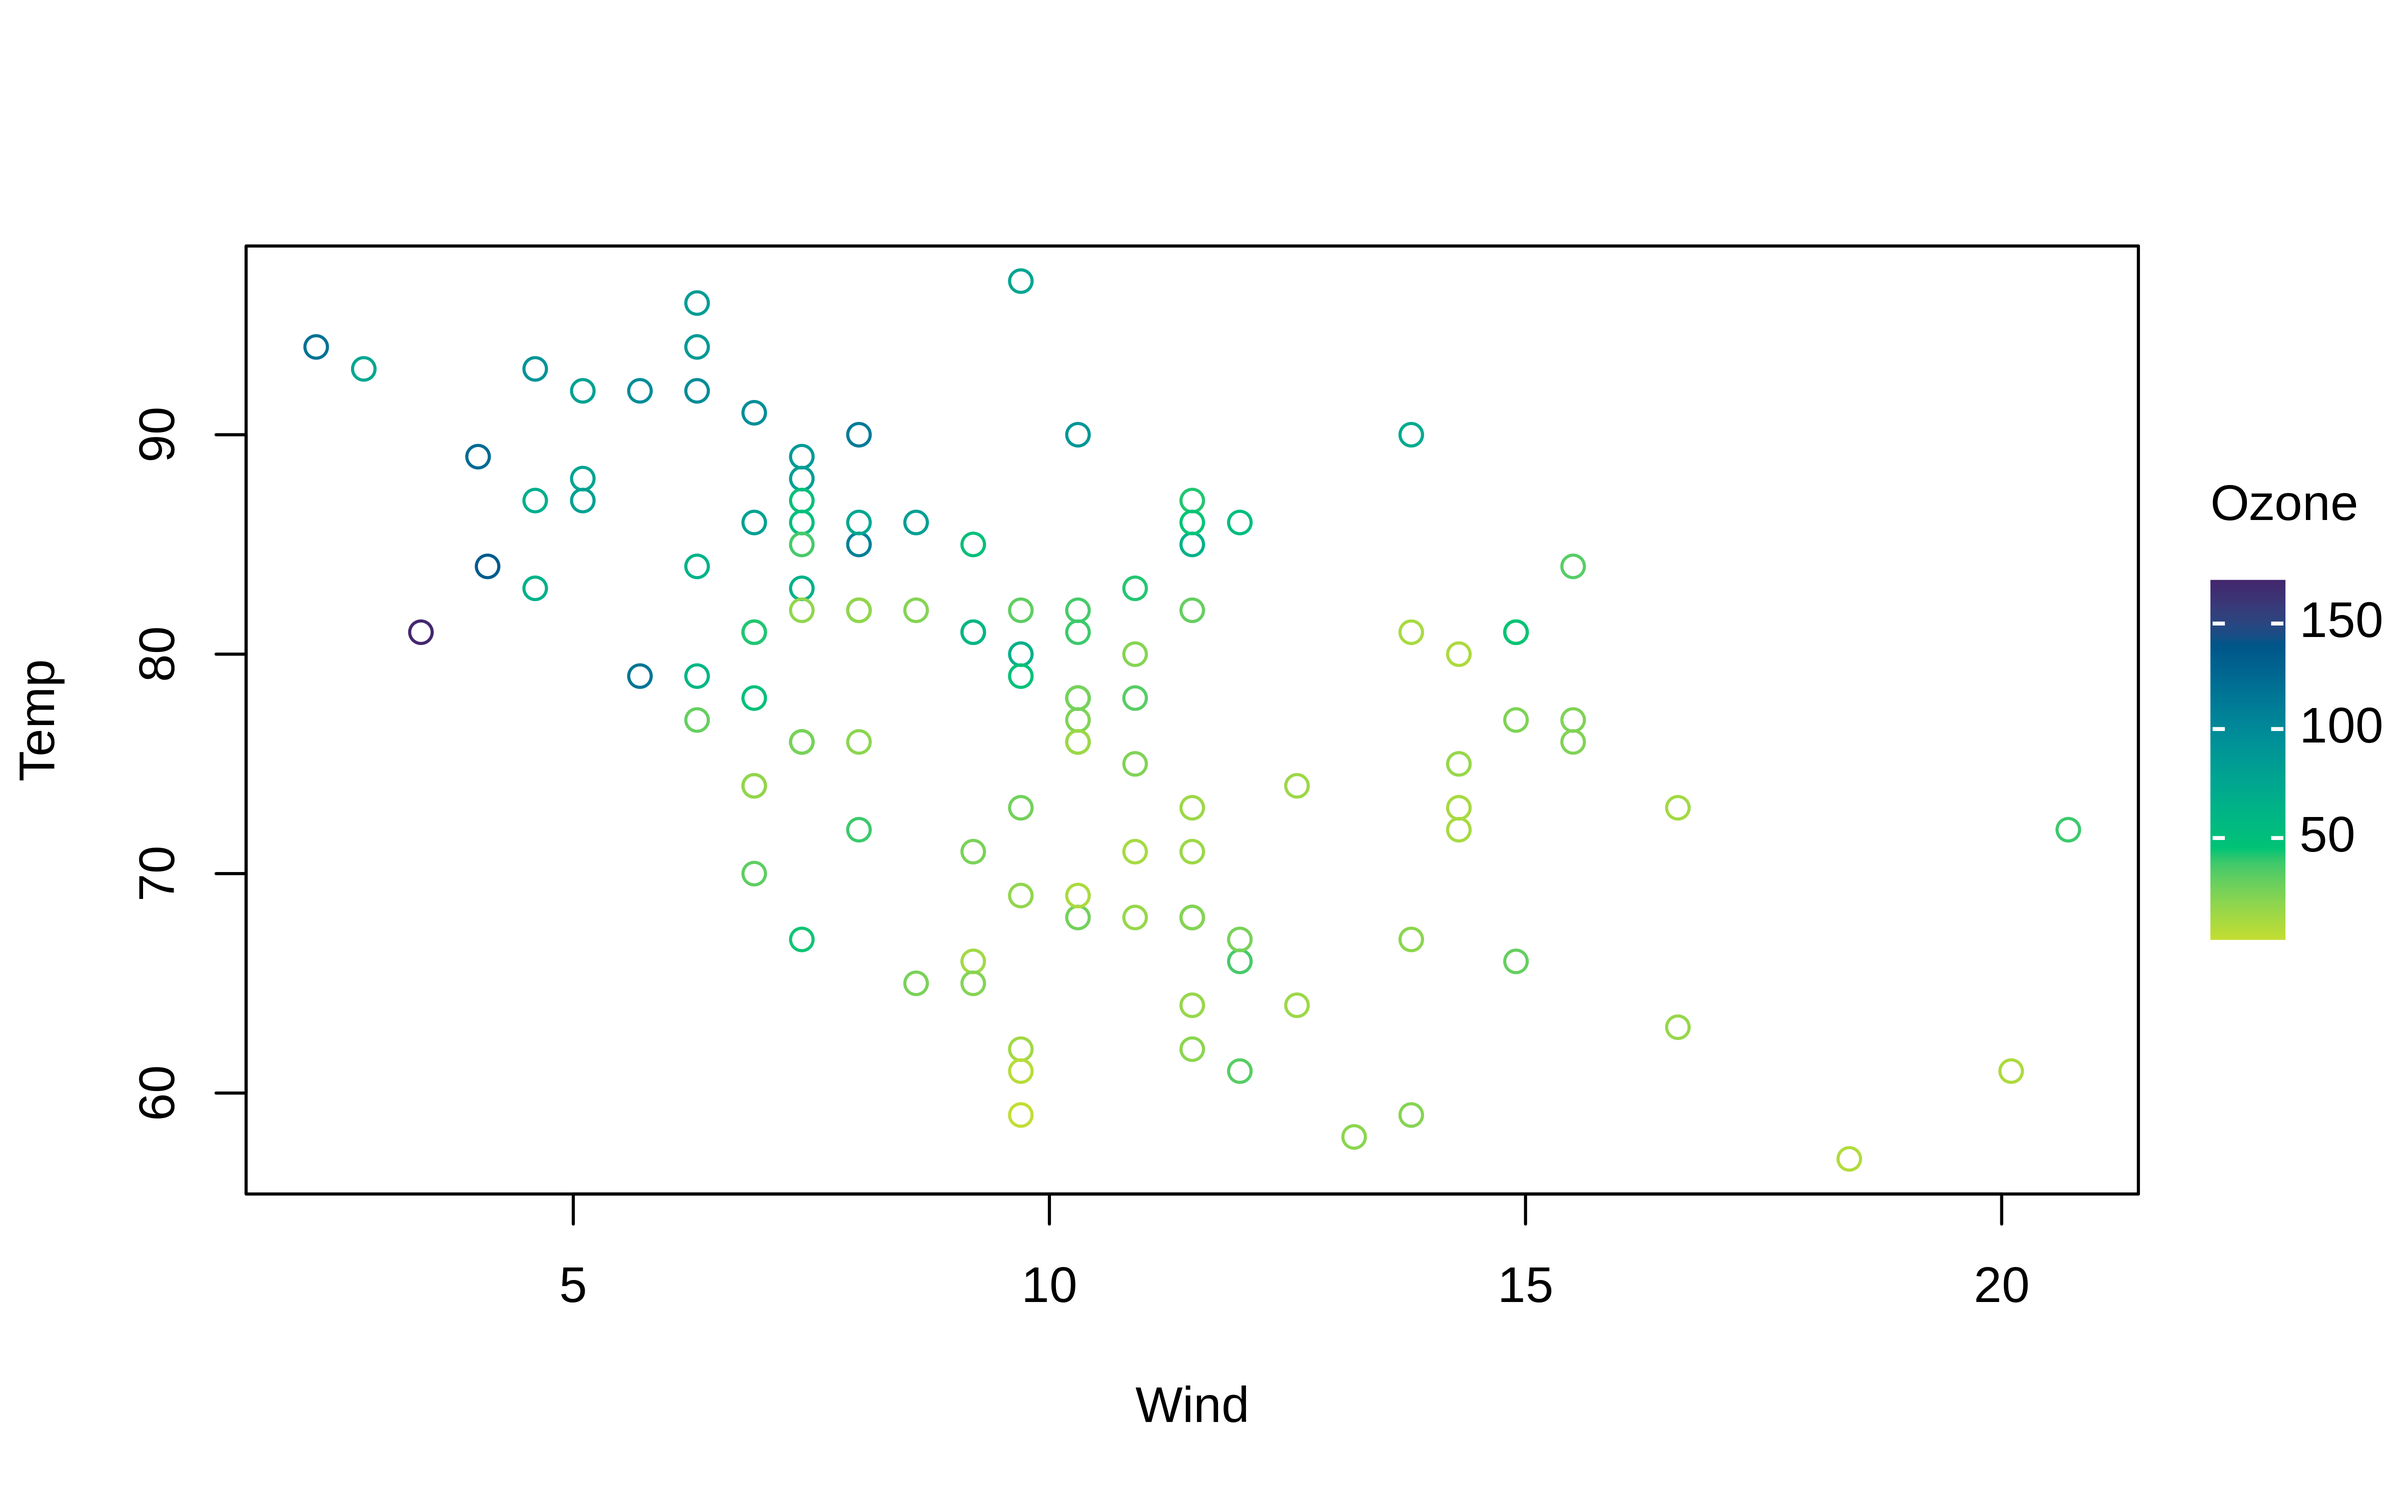
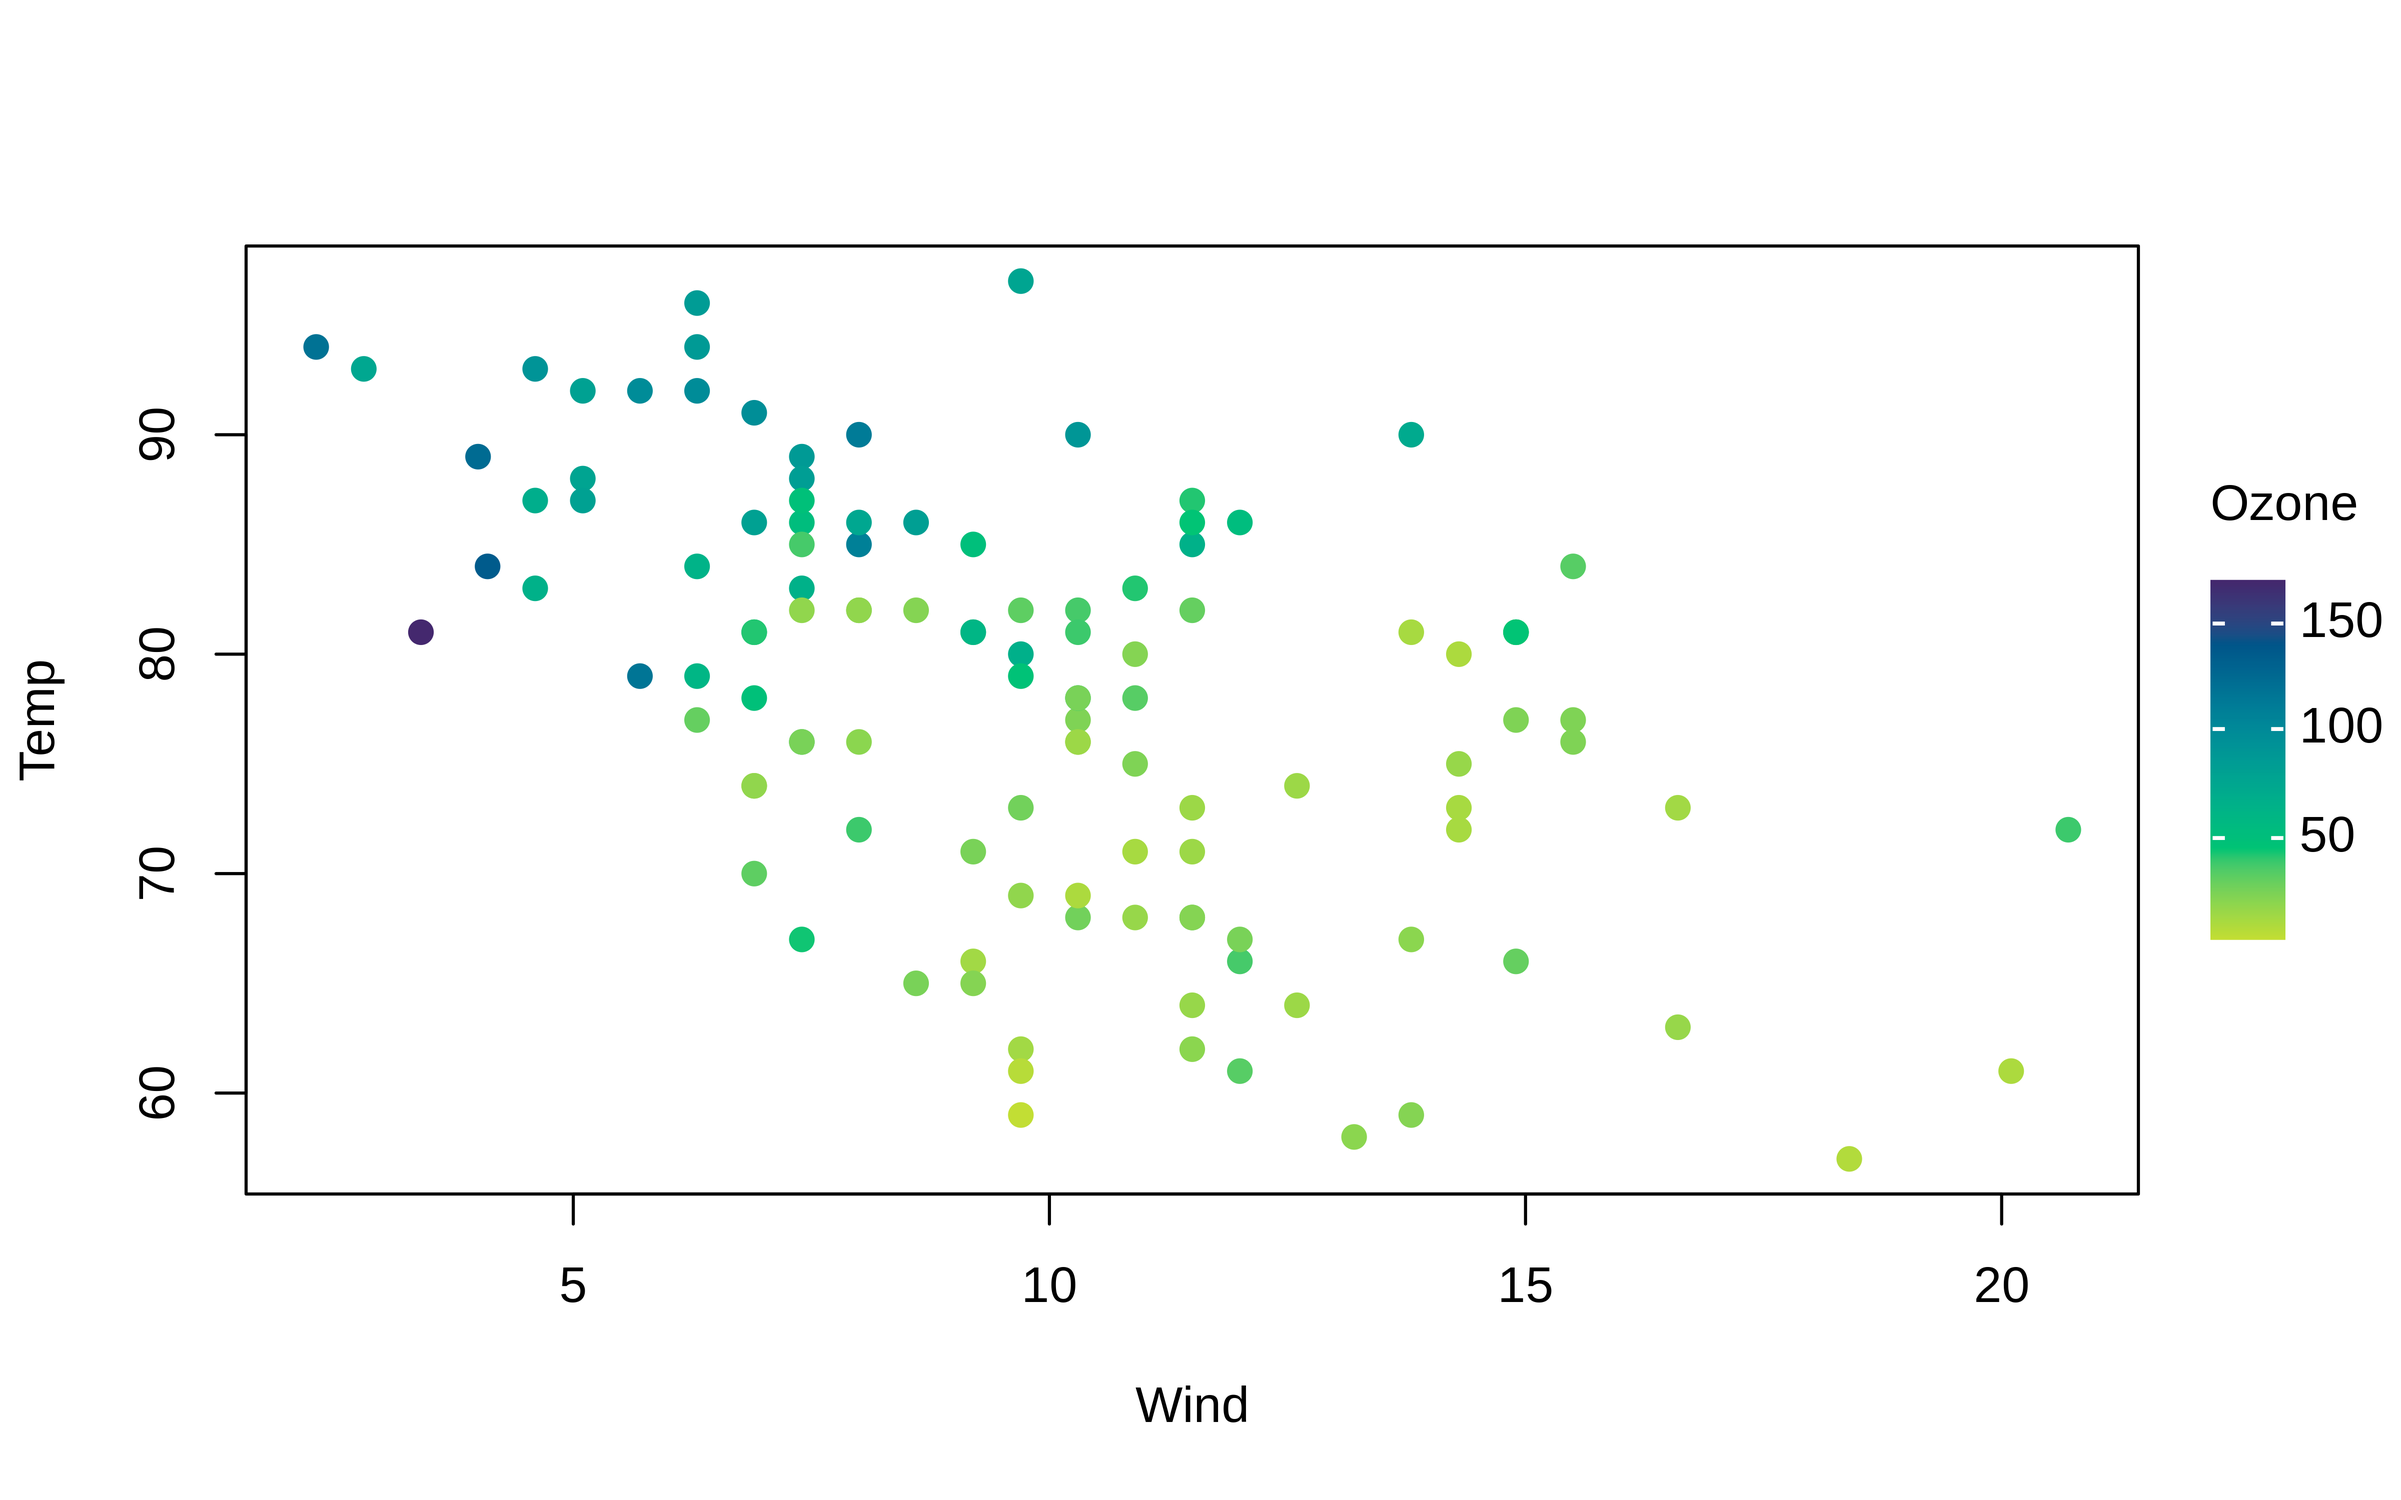
Deploying to gh-pages from @ grantmcdermott/tinyplot@d8b7be2a6a1b8fba57e91307790088a81e449220 🚀

diff --git a/vignettes/intro_tutorial.html b/vignettes/intro_tutorial.html
@@ -453,7 +453,7 @@ pre > code.sourceCode > span > a:first-child::before { text-decoration: underlin
 </div>
 <p>Finally, note that gradient legends are also supported for continuous grouping variables. Gradient legends can be customized in a similar vein to the discrete legends that we have seen so far (keyword positioning, palette choice, alpha transparency, etc.) But here is a simple example that demonstrates the default behaviour.</p>
 <div class="cell">
-<div class="sourceCode cell-code" id="cb16"><pre class="sourceCode r code-with-copy"><code class="sourceCode r"><span id="cb16-1"><a href="#cb16-1" aria-hidden="true" tabindex="-1"></a><span class="fu">tinyplot</span>(Temp <span class="sc">~</span> Wind <span class="sc">|</span> Ozone, <span class="at">data =</span> aq)</span></code><button title="Copy to Clipboard" class="code-copy-button"><i class="bi"></i></button></pre></div>
+<div class="sourceCode cell-code" id="cb16"><pre class="sourceCode r code-with-copy"><code class="sourceCode r"><span id="cb16-1"><a href="#cb16-1" aria-hidden="true" tabindex="-1"></a><span class="fu">tinyplot</span>(Temp <span class="sc">~</span> Wind <span class="sc">|</span> Ozone, <span class="at">data =</span> aq, <span class="at">pch =</span> <span class="dv">19</span>)</span></code><button title="Copy to Clipboard" class="code-copy-button"><i class="bi"></i></button></pre></div>
 <div class="cell-output-display">
 <div>
 <figure class="figure">

diff --git a/vignettes/gallery.html b/vignettes/gallery.html
@@ -617,7 +617,7 @@ window.document.addEventListener("DOMContentLoaded", function (event) {
 });
 </script>
 </div> <!-- /content -->
-<script>var lightboxQuarto = GLightbox({"loop":false,"selector":".lightbox","openEffect":"zoom","closeEffect":"zoom","descPosition":"bottom"});
+<script>var lightboxQuarto = GLightbox({"closeEffect":"zoom","openEffect":"zoom","selector":".lightbox","loop":false,"descPosition":"bottom"});
 window.onload = () => {
   lightboxQuarto.on('slide_before_load', (data) => {
     const { slideIndex, slideNode, slideConfig, player, trigger } = data;
